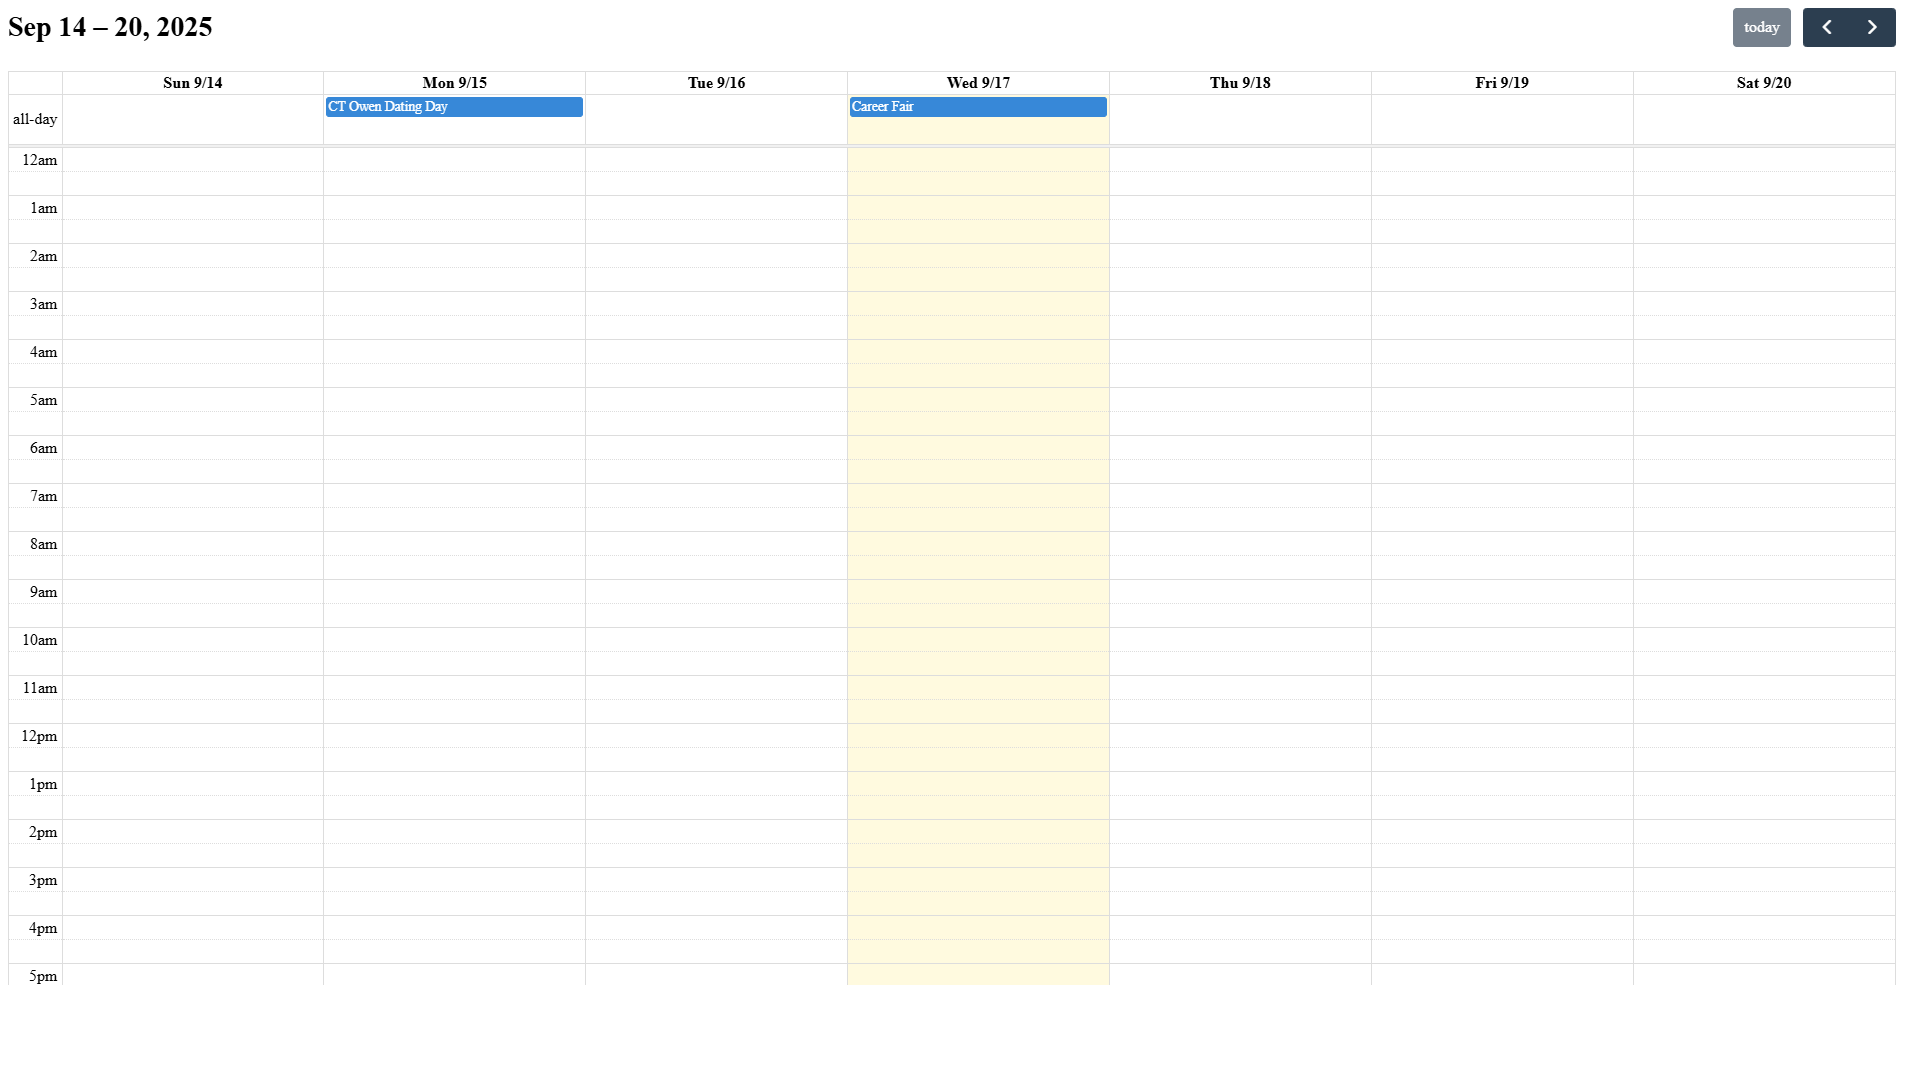
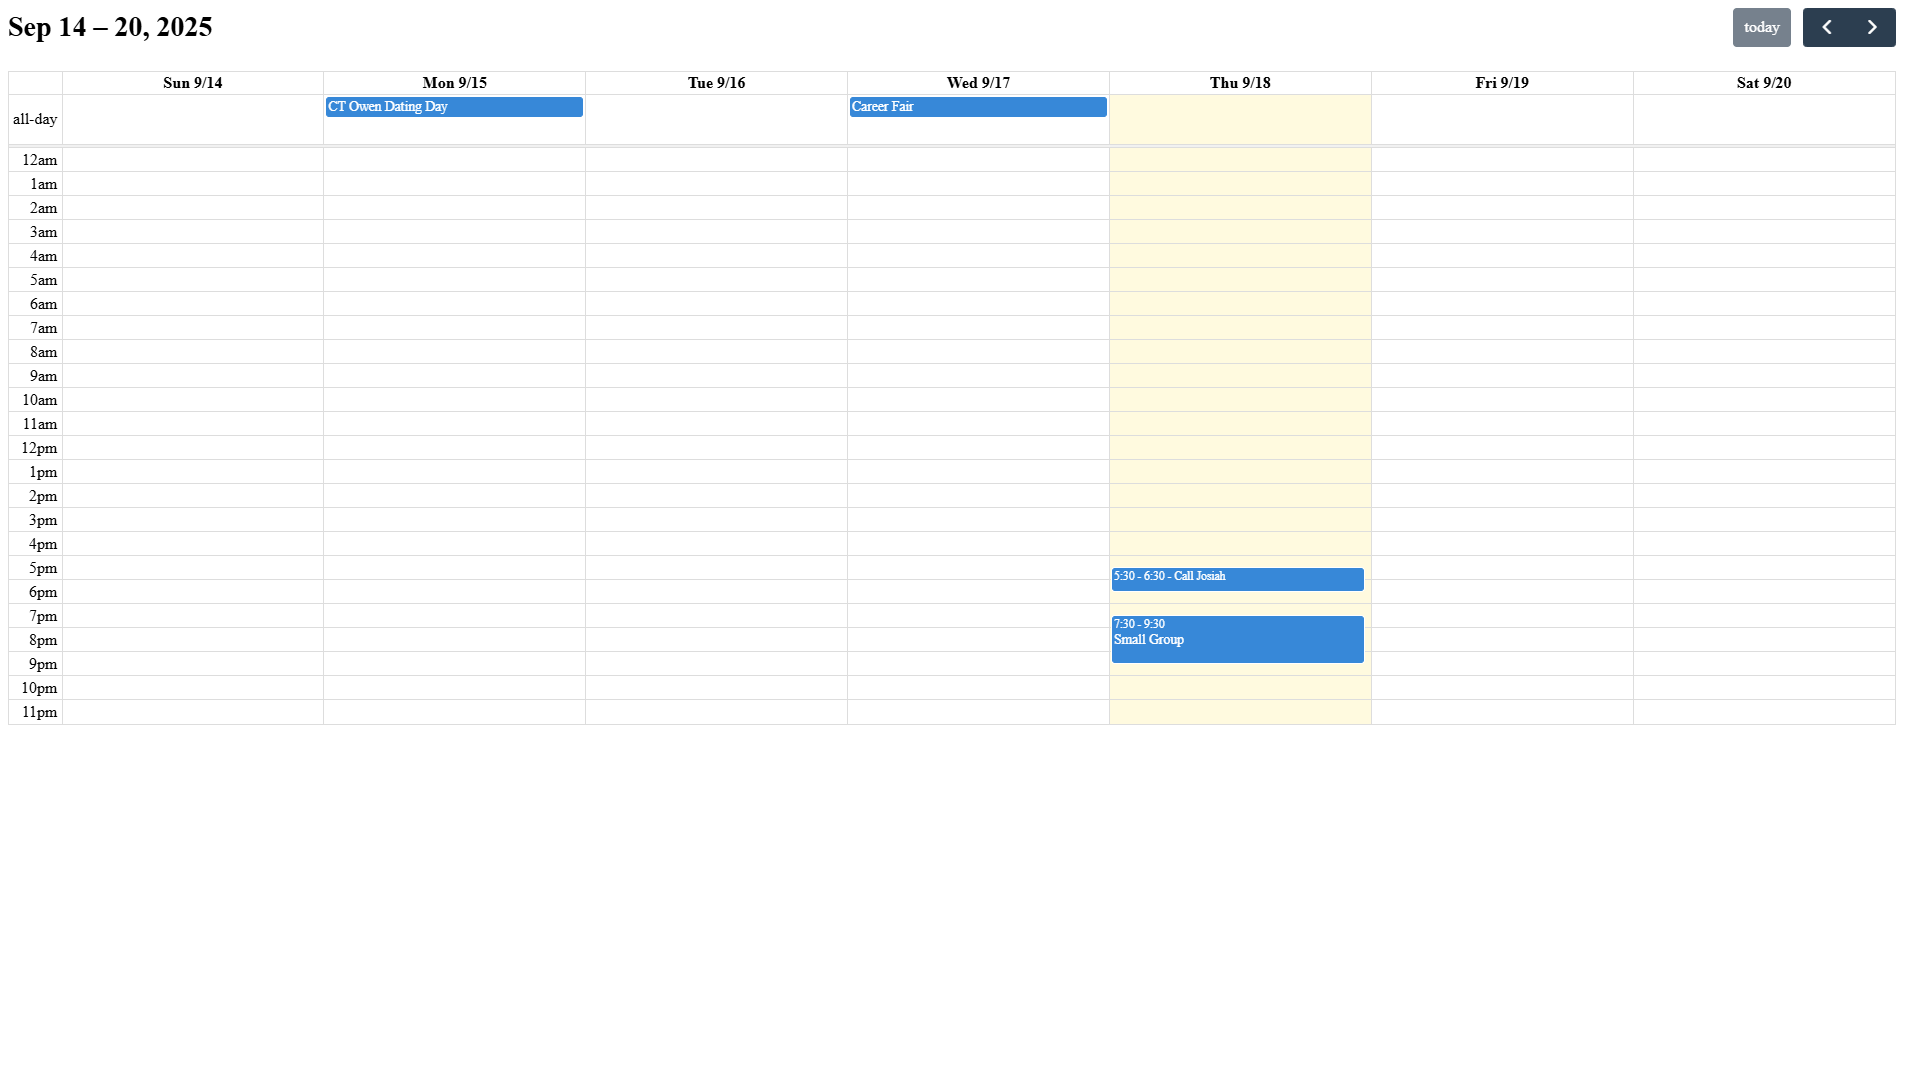
wip

diff --git a/src/plugins/calendar/display/display.html b/src/plugins/calendar/display/display.html
@@ -7,17 +7,31 @@
     <script src='https://cdn.jsdelivr.net/npm/fullcalendar@6.1.19/index.global.min.js'></script>
     <title>Calendar</title>
     <script>
+        const events = {{ settings.events | safe }};
 
         document.addEventListener('DOMContentLoaded', function () {
             var calendarEl = document.getElementById('calendar');
             var calendar = new FullCalendar.Calendar(calendarEl, {
                 initialView: '{{ settings.layout }}',
-                events: {{ settings.events | safe }}
+                events: events,
+                slotDuration: "01:00:00",
+                height: 'auto'
             });
             calendar.render();
         });
 
     </script>
+    <style>
+        main {
+            margin: 0;
+            padding: 0;
+        }
+
+        .calendar {
+            width: 100vw;
+            height: 100vh;
+        }
+    </style>
 </head>
 
 <body>

diff --git a/src/plugins/calendar/settings.html b/src/plugins/calendar/settings.html
@@ -7,7 +7,7 @@
     </div>
     <button id="add-calendar-btn">Add Calendar</button>
     <div class="calendar-layout">
-      <input type="radio" name="layout" id="day" value="timeGridDay">
+      <input type="radio" name="layout" id="day" value="timeGridDay" required checked>
       <input type="radio" name="layout" id="week" value="timeGridWeek">
       <input type="radio" name="layout" id="month" value="timeGridMonth">
       <input type="radio" name="layout" id="list" value="listMonth">

diff --git a/src/plugins/calendar/calendar.py b/src/plugins/calendar/calendar.py
@@ -5,7 +5,7 @@ from utils.render_utils import screenshot_html
 import requests
 import icalendar
 import recurring_ical_events
-from datetime import datetime, timedelta
+from datetime import datetime, timedelta, date
 import calendar
 
 
@@ -21,6 +21,7 @@ class CalendarPlugin(BasePlugin):
         events = self._create_events(calendar_url, start, end)
         plugin_settings["events"] = json.dumps(events)
         print(plugin_settings['events'])
+        print(len(plugin_settings['events']))
 
         with app.app_context():
             str = render_template(
@@ -69,14 +70,29 @@ class CalendarPlugin(BasePlugin):
             dtstart = event.get("DTSTART").dt
             dtend = event.get("DTEND").dt if event.get("DTEND") else None
 
-            # Convert datetimes to ISO strings (FullCalendar friendly)
+           # Normalize datetime/date to ISO strings
+            if isinstance(dtstart, datetime):
+                start_str = dtstart.isoformat()
+            elif isinstance(dtstart, date):
+                start_str = dtstart.isoformat()
+            else:
+                continue  # skip unknown type
+
             event_dict = {
                 "title": summary,
-                "start": dtstart.isoformat(),
+                "start": start_str,
             }
+
             if dtend:
-                event_dict["end"] = dtend.isoformat()
+                if isinstance(dtend, datetime):
+                    end_str = dtend.isoformat()
+                elif isinstance(dtend, date):
+                    # FullCalendar treats all-day end as exclusive
+                    # so if ical says 2025-09-18, you might want +1 day
+                    end_str = dtend.isoformat()
+                event_dict["end"] = end_str
 
             event_list.append(event_dict)
-        
+
         return event_list
+
